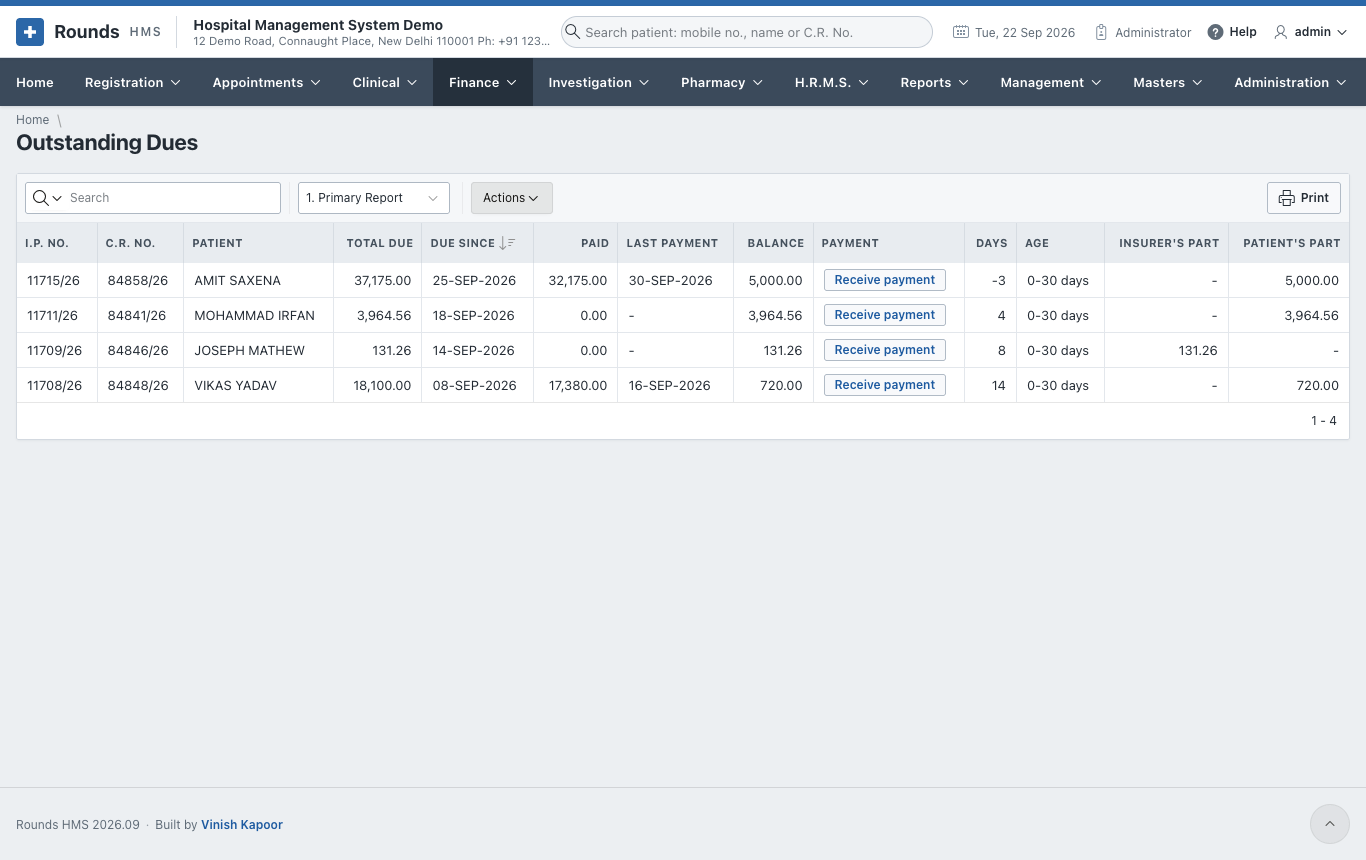
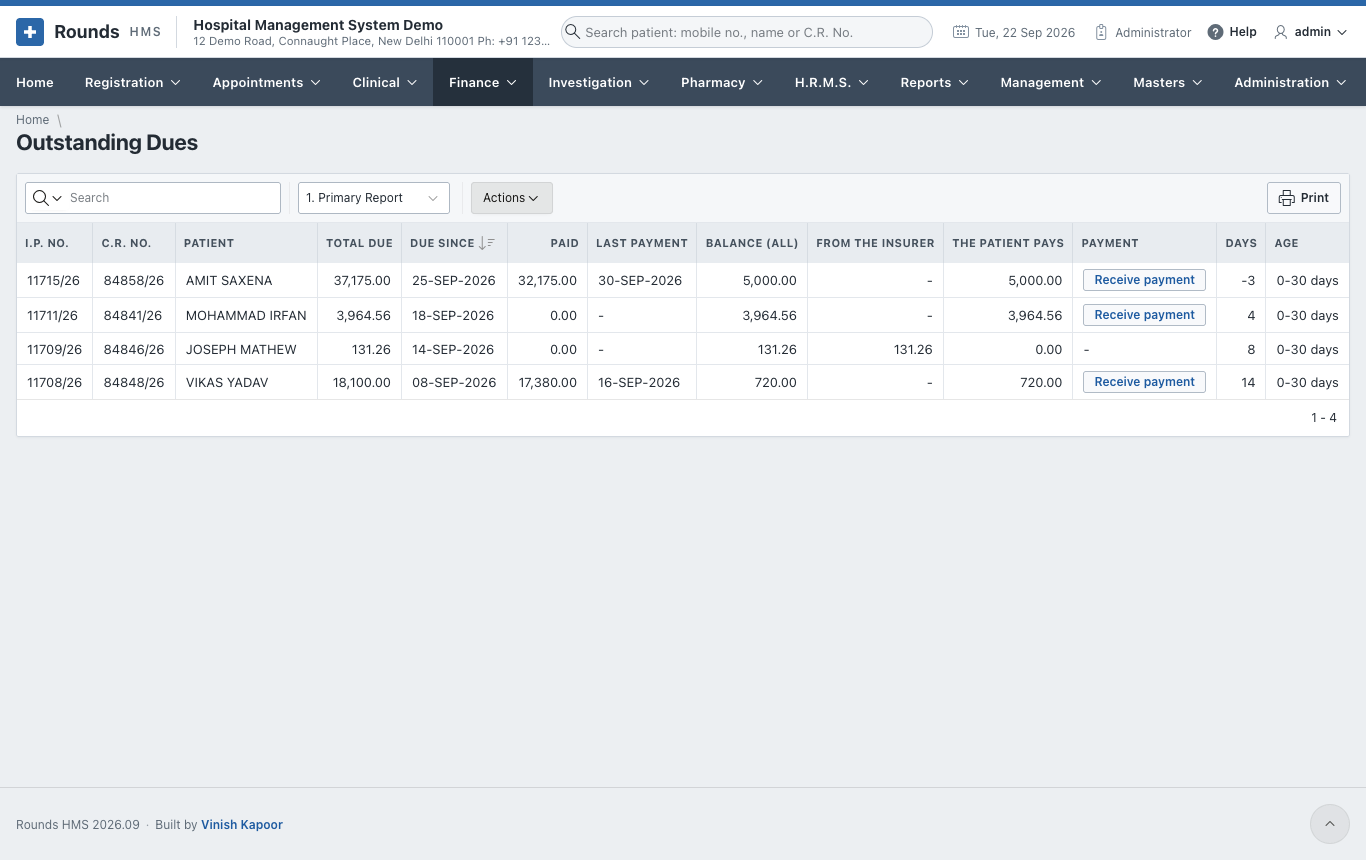
Dues of an insured admission: the insurer's part and the patient's

diff --git a/docs/finance/inpatient-billing.md b/docs/finance/inpatient-billing.md
@@ -91,8 +91,15 @@ the **Insurer's Part** and the **Patient's Part** beside it, and
 ## Outstanding dues
 
 **Finance > Outstanding Dues** lists every admission that still owes money: the bill, what was paid, and
-the balance. For an insured admission, **Insurer's Part** is what is still to come from the insurer, and
-**Patient's Part** is what to ask the patient for.
+**Balance (All)**. For an insured admission, that balance is two debts:
+
+- **From the Insurer**: what the insurer still has to pay. It is collected by recording the settlement on
+  the [claim](insurance.md#follow-a-claim), not at the counter;
+- **The Patient Pays**: what to ask the patient for. **Receive payment** is offered only when this is more
+  than nought.
+
+For example: a bill of Rs 290 with a 10% co-payment reads *Balance (All) 290, From the Insurer 261, The
+Patient Pays 29*. The payment screen it opens shows the same two parts.
 
 ![The outstanding dues](../assets/screens/finance/dues.png)
 
@@ -114,8 +121,9 @@ the balance. For an insured admission, **Insurer's Part** is what is still to co
 **Finance > Receive from a Patient** takes one payment against **all** the dues of a patient, across bills
 and admissions:
 
-1. Type the **Mobile No.** and press ++tab++, or search the **Patient**. **Owes in All** shows the total, and
-   **Dues of the Patient** lists each due.
+1. Type the **Mobile No.** and press ++tab++, or search the **Patient**. **Owes in All** shows what the
+   patient owes, and **Dues of the Patient** lists each due. For an insured admission only the patient's own
+   part is counted; the insurer's part is shown beside it but is not taken here.
 2. **Amount Received**, the **Date**, a **Remark**, and **Paid By** (a UPI payment shows its QR code).
 3. Click **Receive the Payment**. The amount is set against the oldest admission first, with one receipt
    for each admission it reaches. **Latest Receipts of
